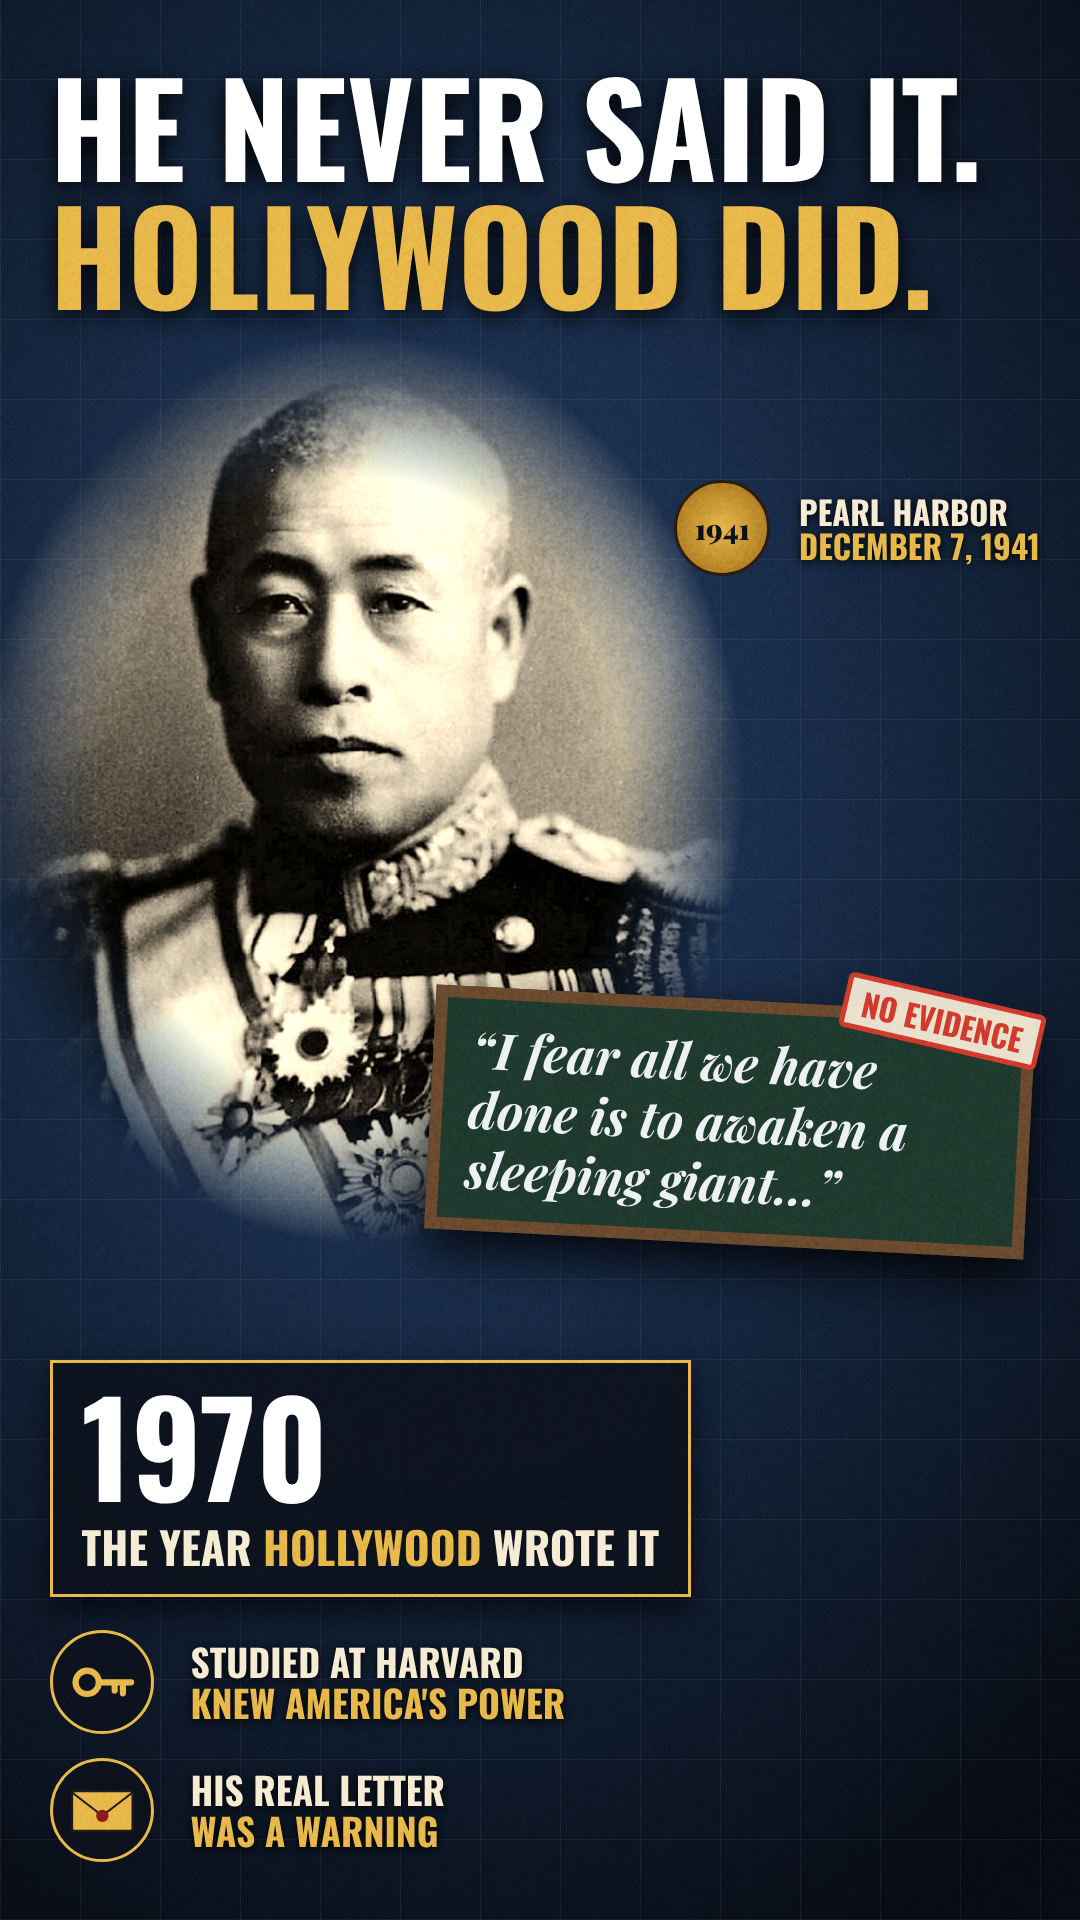
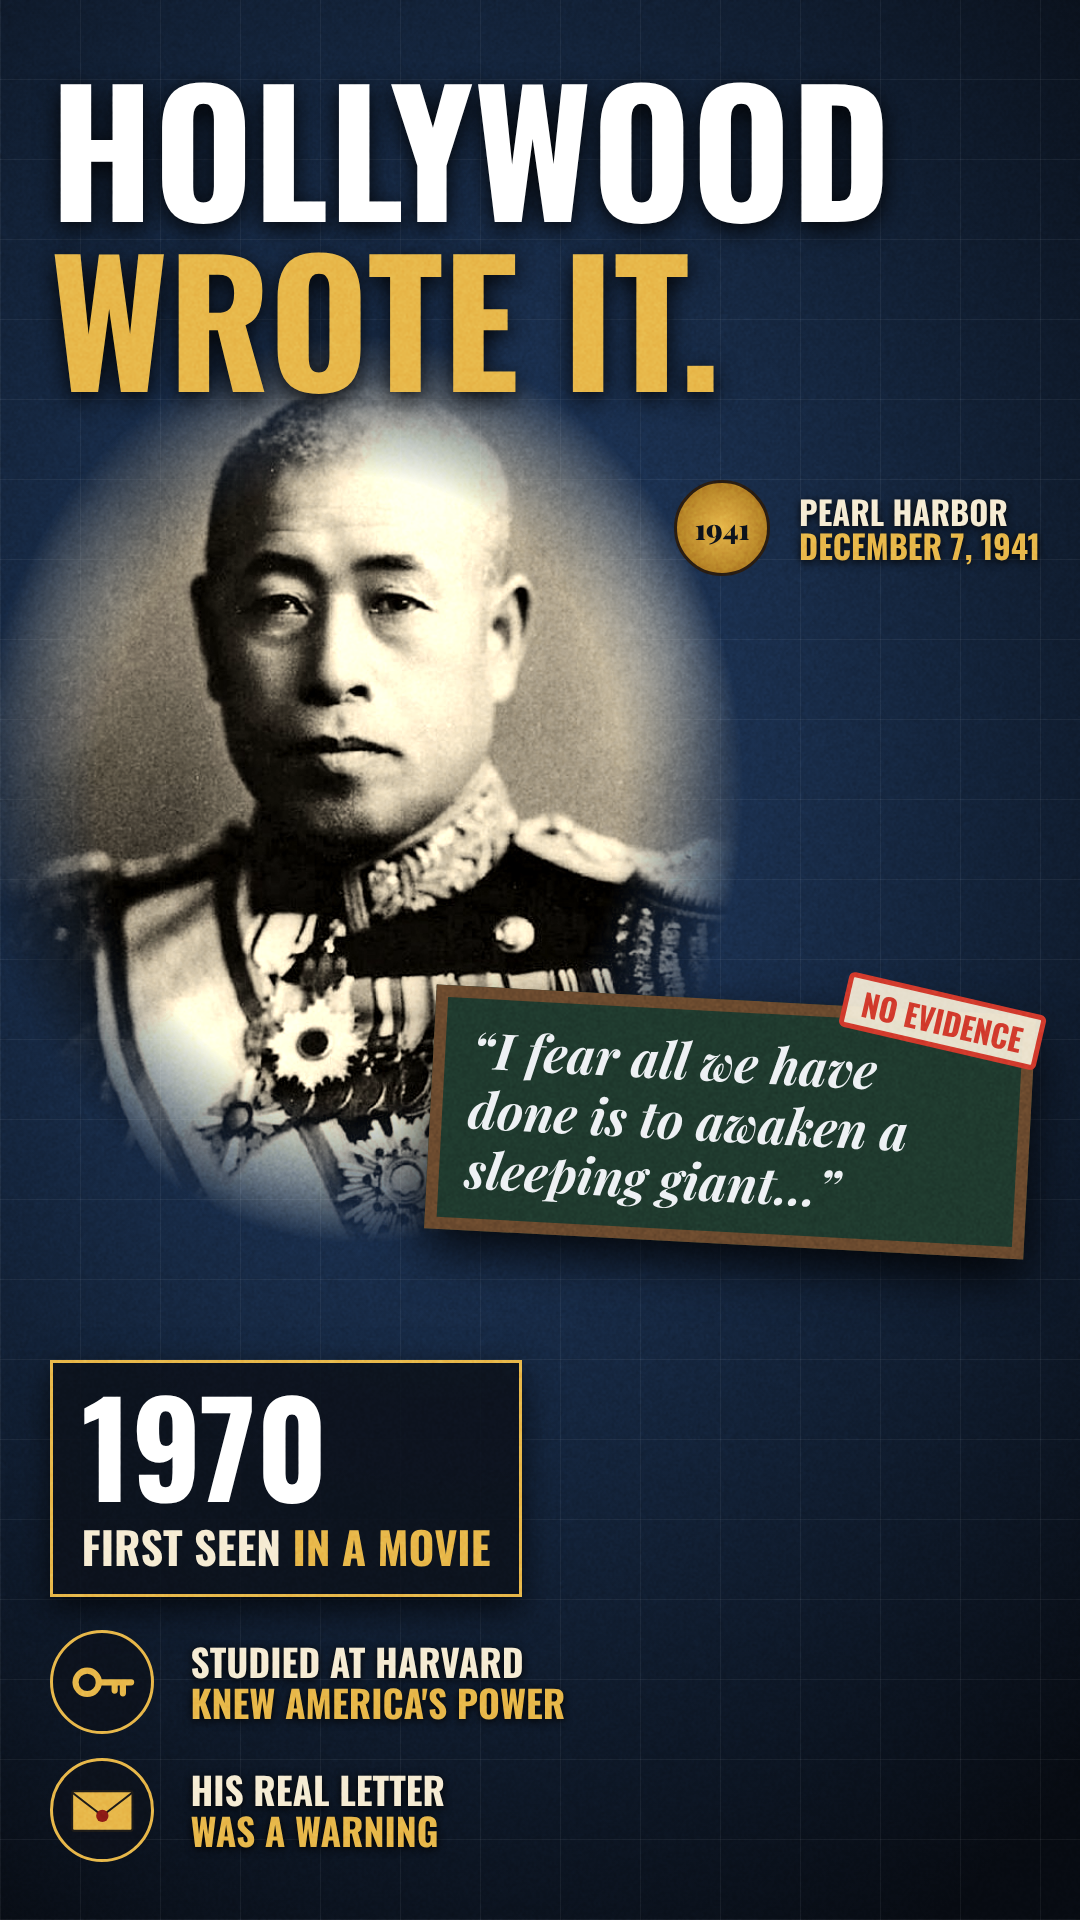
Yamamoto Short: best-5 linted titles, 3-word cover headline
Claude-Session: https://claude.ai/code/session_01KoUcWc3hJLjvED8SRfaqEb

Changed region(s): [[0.0306, 0.0312, 0.9167, 0.2188], [0.0611, 0.6875, 0.6417, 0.8438]]

diff --git a/yamamoto-quote-short/src/ThumbPoster.tsx b/yamamoto-quote-short/src/ThumbPoster.tsx
@@ -36,7 +36,7 @@ const Quote: React.FC<{ w: number; size: number; rot: number }> = ({ w, size, ro
 const Stat: React.FC<{ s: number }> = ({ s }) => (
   <div style={{ background: 'rgba(12,18,28,0.9)', border: `3px solid ${GOLD}`, padding: `${s * 0.12}px ${s * 0.22}px`, boxShadow: '0 12px 30px rgba(0,0,0,0.7)' }}>
     <div style={{ fontFamily: HEAD, fontWeight: 700, fontSize: s, lineHeight: 1, color: '#fff' }}>1970</div>
-    <div style={{ fontFamily: HEAD, fontWeight: 700, fontSize: s * 0.34, color: CREAM, marginTop: 4 }}>THE YEAR <span style={{ color: GOLD }}>HOLLYWOOD</span> WROTE IT</div>
+    <div style={{ fontFamily: HEAD, fontWeight: 700, fontSize: s * 0.34, color: CREAM, marginTop: 4 }}>FIRST SEEN <span style={{ color: GOLD }}>IN A MOVIE</span></div>
   </div>
 );
 const Bg: React.FC = () => (
@@ -53,7 +53,7 @@ export const PosterShort: React.FC = () => (
   <AbsoluteFill style={{ background: INK }}>
     <Fonts /><Bg />
     <Bust style={{ left: -140, top: 330, width: 1000 }} />
-    <div style={{ position: 'absolute', left: 50, right: 40, top: 60 }}><Headline a="He never said it." b="Hollywood did." size={128} /></div>
+    <div style={{ position: 'absolute', left: 50, right: 40, top: 60 }}><Headline a="Hollywood" b="wrote it." size={170} /></div>
     <div style={{ position: 'absolute', right: 40, top: 480 }}><Badge s={96} /></div>
     <div style={{ position: 'absolute', left: 430, top: 1000 }}><Quote w={600} size={50} rot={3} /></div>
     <div style={{ position: 'absolute', left: 50, top: 1360 }}><Stat s={130} /></div>
@@ -69,7 +69,7 @@ export const PosterWide: React.FC = () => (
   <AbsoluteFill style={{ background: INK }}>
     <Fonts /><Bg />
     <Bust style={{ left: -60, top: 20, height: 760 }} />
-    <div style={{ position: 'absolute', left: 560, right: 30, top: 30 }}><Headline a="He never said it." b="Hollywood did." size={80} /></div>
+    <div style={{ position: 'absolute', left: 560, right: 30, top: 30 }}><Headline a="Hollywood" b="wrote it." size={104} /></div>
     <div style={{ position: 'absolute', left: 580, top: 240 }}><Quote w={420} size={34} rot={-2} /></div>
     <div style={{ position: 'absolute', right: 30, top: 270 }}><Badge s={60} /></div>
     <div style={{ position: 'absolute', left: 580, top: 480 }}><Stat s={84} /></div>

diff --git a/yamamoto-quote-short/output/youtube-seo.md b/yamamoto-quote-short/output/youtube-seo.md
@@ -27,16 +27,16 @@
 - "Spread… minus the last sentence… interpreted in America as a boast."
 - Harvard, 1919–21. Naval attaché in Washington.
 
-## Titles (linted)
-| # | Title | Score |
-|---|---|---|
-| **1 ★** | **The 1941 Pearl Harbor Quote Yamamoto Never Said** | 98 |
-| 2 | Yamamoto's "Sleeping Giant" Quote Came From a 1970 Movie | 98 (answers the question; use it for search) |
-| 3 | The Pearl Harbor Quote Everyone Knows Is From a Movie (1970) | 98 |
+## Titles: best 5 (linted with the 3-word cover "HOLLYWOOD WROTE IT")
+| # | Title | Score | Angle |
+|---|---|---|---|
+| **1 ★** | **Yamamoto's "Sleeping Giant" Quote Is From a 1970 Movie** | 98 | Search: matches "yamamoto sleeping giant", a top autocomplete term |
+| 2 | The 1941 Pearl Harbor Quote Yamamoto Never Said | 98 | Curiosity (the original title) |
+| 3 | The "Sleeping Giant" Quote Nobody Can Find Before 1970 | 98 | Mystery: matches the hook line |
+| 4 | Admiral Yamamoto Never Said "Sleeping Giant" (1941) | 98 | Myth-bust, short |
+| 5 | Yamamoto's Real 1941 Warning Was Twisted Into a Boast | 98 | Twist (the second reveal) |
 
-**Thumbnails (poster style):**
-- **Shorts cover:** `thumbnail-poster-1080x1920.jpg`. Headline **"HE NEVER SAID IT. HOLLYWOOD DID."**, the real portrait, the chalkboard quote stamped NO EVIDENCE, a "1970: the year Hollywood wrote it" stat box, and icon captions.
-- **16:9:** `thumbnail-poster-1280x720.jpg`.
+**Cover:** `thumbnail-poster-1080x1920.jpg`, now with the 3-word headline **"HOLLYWOOD WROTE IT."** The earlier 6-word "HE NEVER SAID IT. HOLLYWOOD DID." was too long to read at feed size and repeated the title's words.
 
 ## Description
 ```
